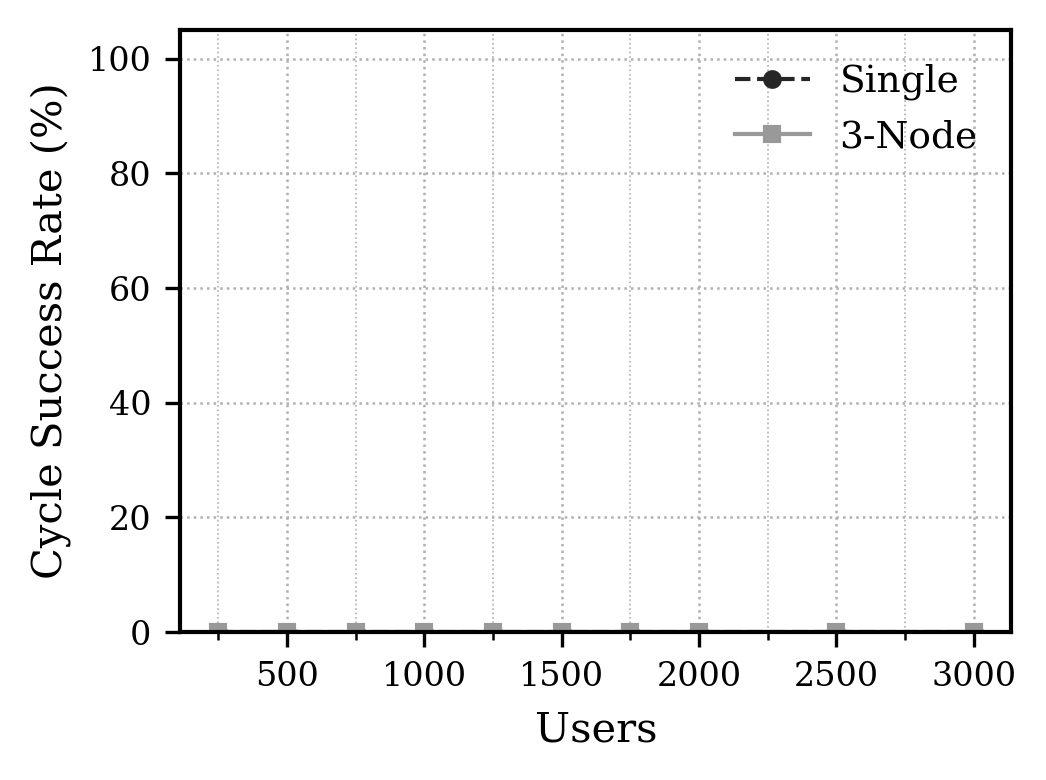
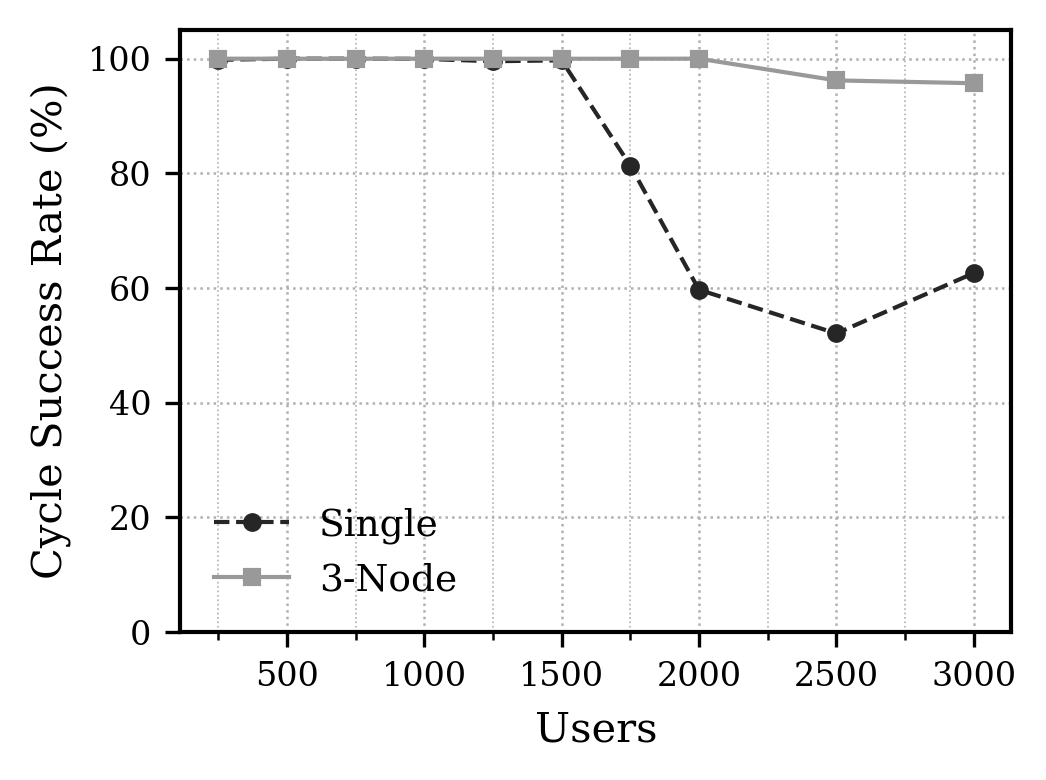
readme revised

diff --git a/result/graph.py b/result/graph.py
@@ -33,9 +33,11 @@ def parse_users_from_filename(fname):
 def parse_stage_summary(text):
     out = {}
 
-    m = re.search(r"cycle_ok=(\d+)/(\d+) \(([\d.]+)%\)", text)
-    if m:
-        out["cycle_success_rate"] = float(m.group(3))
+    # progress 라인에도 cycle_ok가 나오므로, "마지막" 매치를 최종 결과로 간주
+    matches = re.findall(r"cycle_ok=(\d+)/(\d+)\s+\(([\d.]+)%\)", text)
+    if matches:
+        # (ok, total, pct) 중 pct
+        out["cycle_success_rate"] = float(matches[-1][2])
 
     return out
 

diff --git a/readme.md b/readme.md
@@ -13,6 +13,38 @@
 
 </div>
 
+## 전체 목차
+
+- [한눈에 보기](#toc-overview)
+- [아키텍처](#toc-architecture)
+- [핵심 특징](#toc-key-features)
+- [저장소 구조](#toc-repo-layout)
+- [빠른 시작](#toc-quick-start)
+- [사전 준비](#toc-quick-start-1)
+- [환경 파일 준비](#toc-quick-start-2)
+- [Node 의존성 설치](#toc-quick-start-3)
+- [KVS 빌드](#toc-quick-start-4)
+- [실행 순서](#toc-run-order)
+- [KVS 실행](#toc-run-order-1)
+- [Backend 실행](#toc-run-order-2)
+- [Ingress 실행](#toc-run-order-3)
+- [헬스체크](#toc-run-order-4)
+- [실험 세팅](#toc-experiment-setup)
+- [계정 시드 생성](#toc-experiment-setup-a)
+- [부하 테스트](#toc-experiment-setup-b)
+- [환경변수 파일 가이드](#toc-env-guide)
+- [실험 과정 및 결과](#toc-experiment-result)
+- [실험 인프라](#main-sec-1)
+- [실험 조건](#main-sec-2)
+- [판정 기준](#main-sec-3)
+- [핵심 결과 (CSV 집계)](#main-sec-4)
+- [성공률 그래프](#main-sec-5-1)
+- [create_post 지연시간 그래프](#main-sec-5-2)
+- [list_posts 지연시간 그래프](#main-sec-5-3)
+- [그래프 재생성](#main-sec-6)
+- [Git 추적 정책](#toc-git-policy)
+
+<a id="toc-overview"></a>
 ## 한눈에 보기
 
 | 영역 | 경로 | 역할 |
@@ -21,12 +53,14 @@
 | Node (개별 노드) | `node/` | `kvs`(C++/RocksDB) + `server/backend`(Node.js API) |
 | 실험 도구 | `stress_test/`, `create_account.js` | 부하 생성, 사용자 계정 대량 생성, 실험 반복 자동화 |
 
+<a id="toc-architecture"></a>
 ## 아키텍처
 
 <p align="center">
   <img src="./img/Diagram.png" alt="클러스터 아키텍처 다이어그램" width="1000" />
 </p>
 
+<a id="toc-key-features"></a>
 ## 핵심 특징
 
 - Ingress: least-inflight 라우팅, queue timeout 기반 load shedding, upstream circuit breaker
@@ -34,6 +68,7 @@
 - KVS: RocksDB 기반 분산 저장소, 노드 간 replication/fan-out read
 - 실험: Node 기반 경량 스트레스 테스트 + 계정 시드 스크립트
 
+<a id="toc-repo-layout"></a>
 ## 저장소 구조
 
 ```text
@@ -48,8 +83,10 @@
 └── readme_en.md             # English documentation
 ```
 
+<a id="toc-quick-start"></a>
 ## 빠른 시작
 
+<a id="toc-quick-start-1"></a>
 ### 1) 사전 준비
 
 - Node.js 18+
@@ -58,6 +95,7 @@
 - C++17 컴파일러
 - RocksDB 및 링크 라이브러리(`snappy`, `zstd`, `zlib`, `bz2`, optional `lz4`)
 
+<a id="toc-quick-start-2"></a>
 ### 2) 환경 파일 준비
 
 ```bash
@@ -66,6 +104,7 @@ cp ingress/.env.example ingress/.env
 cp stress_test/.env.example stress_test/.env
 ```
 
+<a id="toc-quick-start-3"></a>
 ### 3) Node 의존성 설치
 
 ```bash
@@ -73,6 +112,7 @@ cd ingress && npm install
 cd ../node/server/backend && npm install
 ```
 
+<a id="toc-quick-start-4"></a>
 ### 4) KVS 빌드
 
 ```bash
@@ -81,10 +121,12 @@ cmake -S . -B build
 cmake --build build -j"$(nproc)"
 ```
 
+<a id="toc-run-order"></a>
 ## 실행 순서
 
 각 프로세스는 별도 터미널에서 실행하는 것을 권장합니다.
 
+<a id="toc-run-order-1"></a>
 ### 1) KVS 실행
 
 ```bash
@@ -92,6 +134,7 @@ cd /root/2025/clustering_project
 ENV_PATH=/root/2025/clustering_project/node/.env ./node/kvs/build/kvsd
 ```
 
+<a id="toc-run-order-2"></a>
 ### 2) Backend 실행
 
 ```bash
@@ -99,6 +142,7 @@ cd /root/2025/clustering_project
 ENV_PATH=/root/2025/clustering_project/node/.env node node/server/backend/server.js
 ```
 
+<a id="toc-run-order-3"></a>
 ### 3) Ingress 실행
 
 ```bash
@@ -106,6 +150,7 @@ cd /root/2025/clustering_project
 ENV_PATH=/root/2025/clustering_project/ingress/.env node ingress/server.js
 ```
 
+<a id="toc-run-order-4"></a>
 ### 4) 헬스체크
 
 ```bash
@@ -113,8 +158,10 @@ curl http://<ingress-host>:8080/healthz
 curl http://<backend-host>:3000/healthz
 ```
 
+<a id="toc-experiment-setup"></a>
 ## 실험 세팅
 
+<a id="toc-experiment-setup-a"></a>
 ### A. 계정 시드 생성 (`create_account.js`)
 
 `create_account.js`는 `POST /api/register -> POST /api/login -> GET /api/me`를 순서대로 수행해 계정 생성 및 인증 가능 여부를 검증하고, 결과를 `create_accounts_trace.json`으로 기록합니다.
@@ -134,6 +181,7 @@ node create_account.js
 - `REQUEST_TIMEOUT_MS`, `REQUEST_RETRIES`
 - `TRACE_PATH`
 
+<a id="toc-experiment-setup-b"></a>
 ### B. 부하 테스트 (`stress_test/`)
 
 ```bash
@@ -145,24 +193,15 @@ node max_users_1hz.js
 - `http_stress.js`: 고정 타겟에 연속 요청을 보내며 RPS/오류율 확인
 - `max_users_1hz.js`: 사용자당 1Hz(`POST + GET`) 기준 최대 동시 사용자 범위 탐색
 
+<a id="toc-env-guide"></a>
 ## 환경변수 파일 가이드
 
 - `node/.env`: 개별 노드(KVS + Backend) 설정
 - `ingress/.env`: Ingress 라우팅 및 보호 정책 설정
 - `stress_test/.env`: 실험 강도, 성공 기준, 타임아웃 설정
 
+<a id="toc-experiment-result"></a>
 ## 실험 과정 및 결과 (`result/` 기준)
-
-## 목차
-
-- [1) 실험 인프라](#main-sec-1)
-- [2) 실험 조건](#main-sec-2)
-- [3) 판정 기준](#main-sec-3)
-- [4) 핵심 결과 (CSV 집계)](#main-sec-4)
-- [5-1) 성공률 그래프](#main-sec-5-1)
-- [5-2) create_post 지연시간 그래프](#main-sec-5-2)
-- [5-3) list_posts 지연시간 그래프](#main-sec-5-3)
-- [6) 그래프 재생성](#main-sec-6)
 
 <a id="main-sec-1"></a>
 <details>
@@ -322,6 +361,7 @@ python graph.py
 
 </details>
 
+<a id="toc-git-policy"></a>
 ## Git 추적 정책
 
 현재 `.gitignore`는 아래만 제외합니다.
